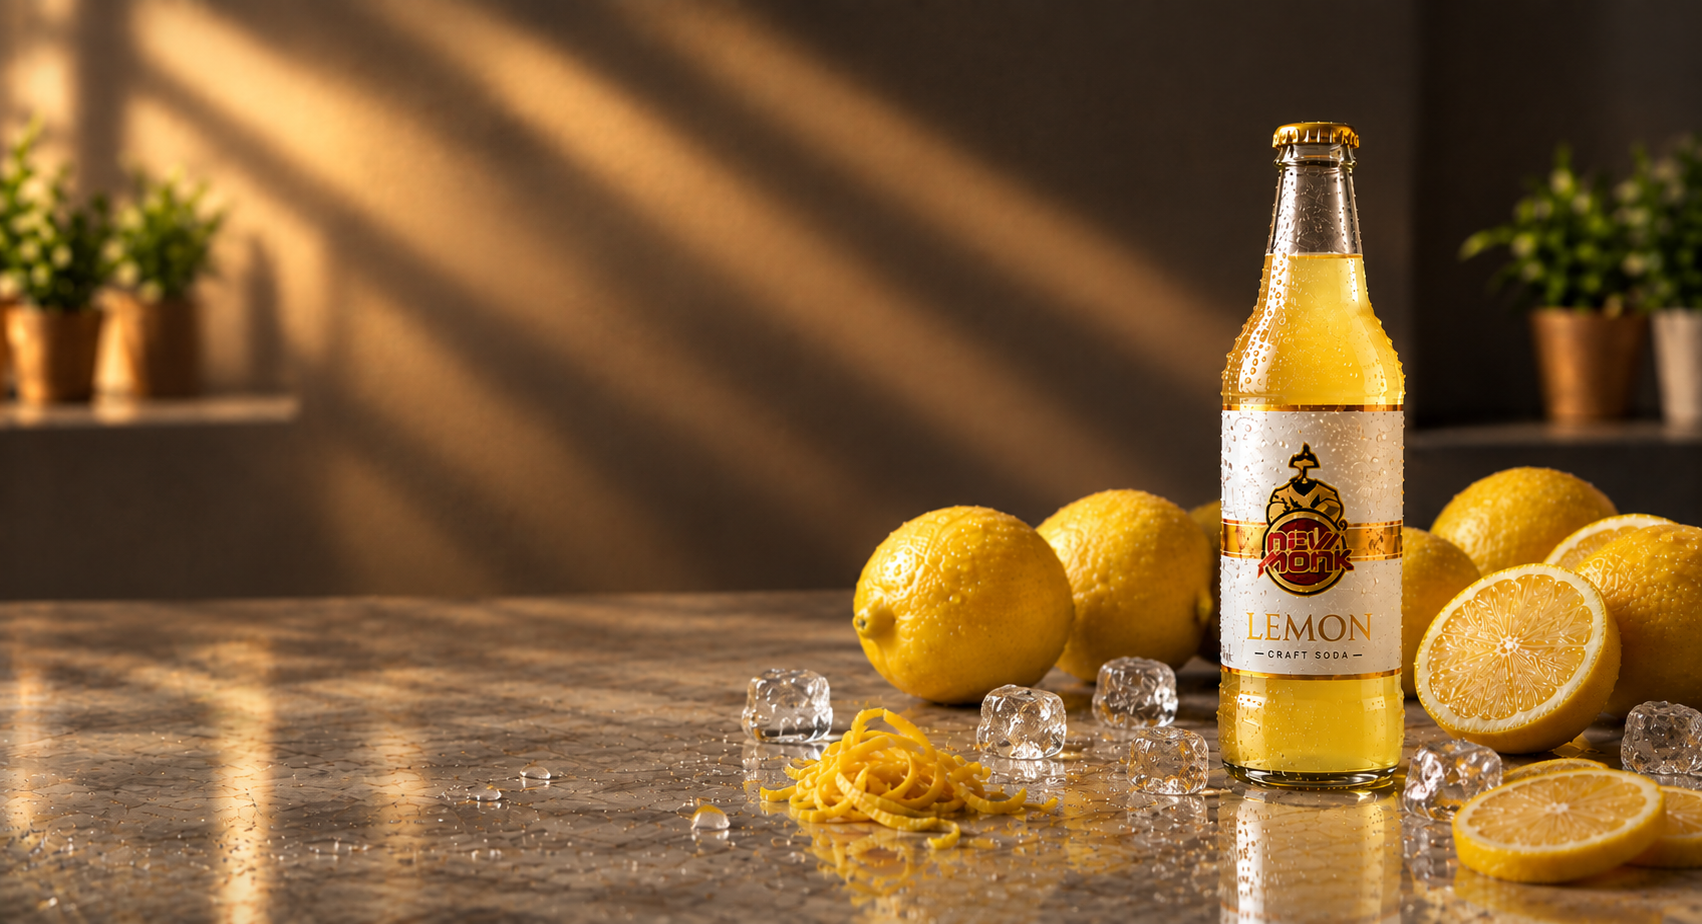
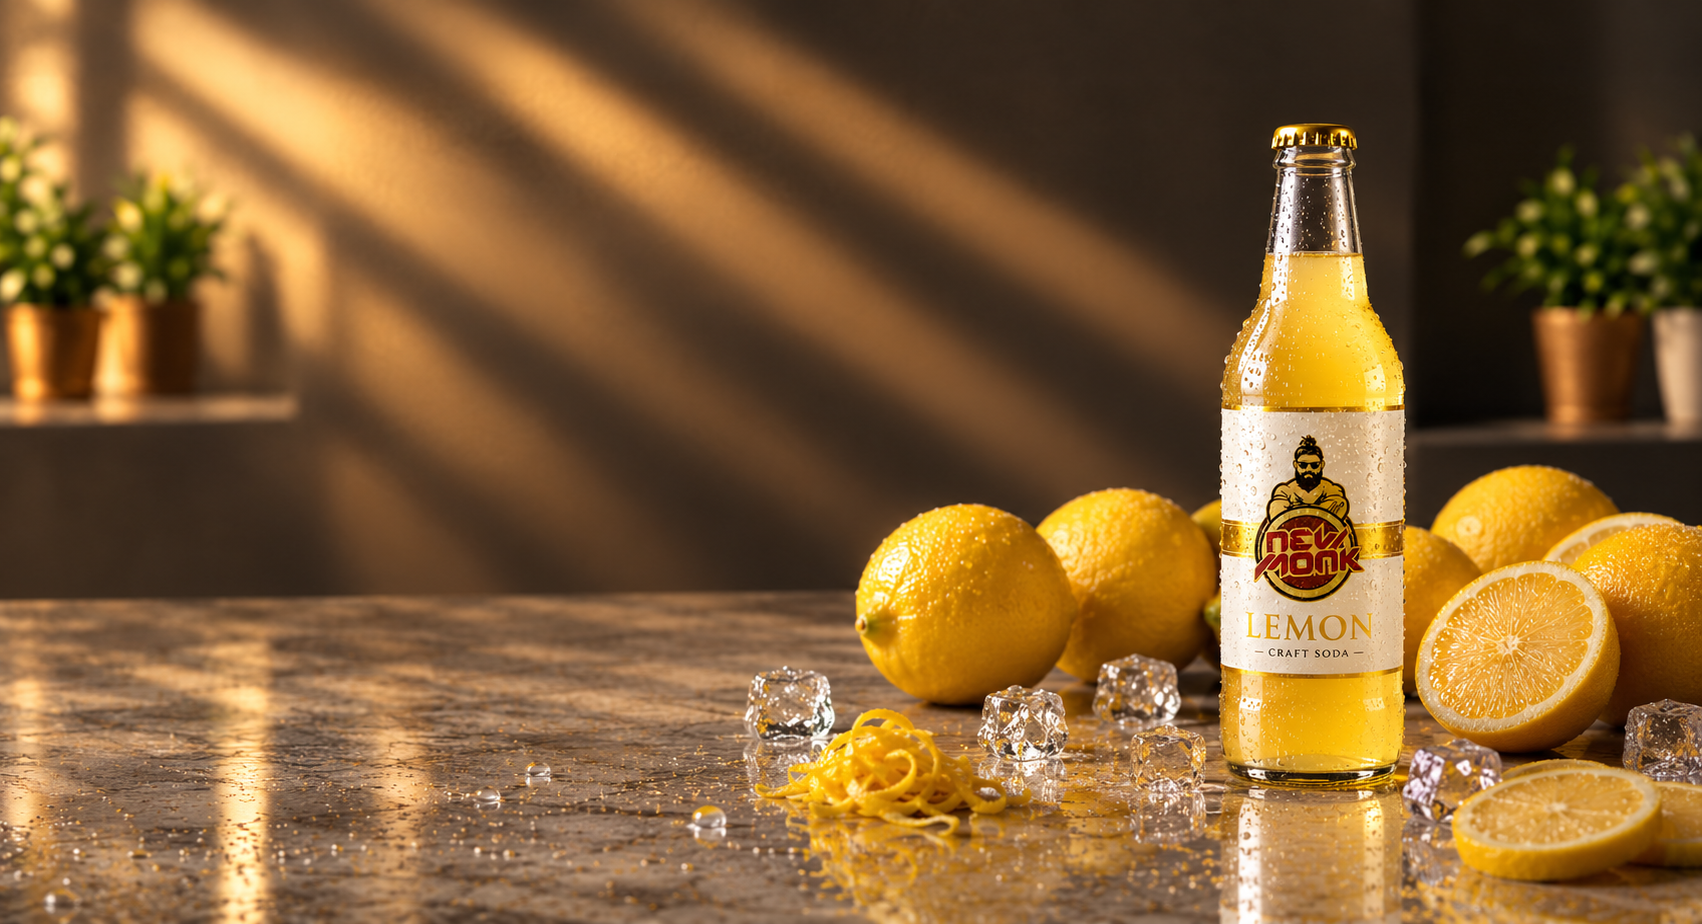
all done

diff --git a/index.html b/index.html
@@ -13,7 +13,7 @@
   </head>
   <body>
     <header class="site-header">
-      <a class="wordmark" href="#top" aria-label="New Monk home">new <span>monk</span></a>
+      <a class="wordmark" href="#top" aria-label="New Monk home"><img src="images/logo.png" alt="New Monk" /></a>
       <nav class="desktop-nav" aria-label="Main navigation">
         <a href="#why">Why New Monk</a>
         <a href="#moments">Good moments</a>
@@ -68,7 +68,7 @@
       </section>
 
       <section class="spark-banner">
-        <img src="images/2.png" alt="New Monk bottle with bright citrus" />
+        <img src="images/2.png?v=2" alt="New Monk bottle with bright citrus" />
         <div class="spark-overlay"></div>
         <h2>Taste the Spark.</h2>
       </section>
@@ -94,38 +94,29 @@
         </div>
       </section>
 
-      <section class="product-story" id="details">
-        <div class="product-visual reveal">
-          <img src="images/11.png" alt="New Monk 250ml glass bottle" />
-          <div class="bottle-shadow"></div>
-          <span class="circle-label">250 ml<br />glass bottle</span>
-        </div>
-        <div class="product-copy section-pad reveal">
-          <p class="eyebrow">The original New Monk</p>
-          <h2>A little golden<br /><em>ritual.</em></h2>
-          <p><strong>New Monk Mocktail Syrup — Sweet, 500ml.</strong><br />Traditional Nannari root extract, blended with pineapple, lemon and mint. No artificial colours or sweeteners.</p>
-          <dl class="details-list">
-            <div><dt>Use for</dt><dd>Mojitos · iced tea · soda · lemonade · slushies</dd></div>
-            <div><dt>Made in</dt><dd>Bangalore</dd></div>
-            <div><dt>Good to know</dt><dd>No artificial colours or sweeteners</dd></div>
-          </dl>
-          <a class="button blinkit-image-link blinkit-cta" aria-label="Buy on Blinkit" href="https://blinkit.com/prn/x/prid/785887" target="_blank" rel="noopener noreferrer"><img src="images/cta2.png" alt="Buy on Blinkit" /></a>
+      <section class="night-edition">
+        <div class="night-image reveal"><img src="images/3.png" alt="New Monk bottle with ice and lemon twists against a dark background" /></div>
+        <div class="night-copy section-pad reveal reveal-delay">
+          <p class="eyebrow">New Monk · Night edition</p>
+          <h2>After Dark,<br /><em>Still Zero Proof.</em></h2>
+          <p>Same bright pour. A little more atmosphere.</p>
         </div>
       </section>
 
-      <section class="inside-bottle section-pad" id="inside-bottle">
+      <section class="inside-bottle section-pad" id="details">
         <div class="inside-product reveal">
-          <img src="images/9.png" alt="New Monk bottle on a clean white background" />
+          <img src="images/11.png" alt="New Monk bottle height comparison" />
           <span class="inside-stamp">Made in<br />India</span>
         </div>
         <div class="inside-content reveal reveal-delay">
-          <p class="eyebrow">Know your pour</p>
-          <h2>Inside Every<br /><span>Bottle.</span></h2>
+          <p class="eyebrow">The original New Monk</p>
+          <h2>A little golden<br /><em>ritual.</em></h2>
+          <p class="details-lede"><strong>New Monk Mocktail Syrup — Sweet, 500ml.</strong><br />Traditional Nannari root extract, blended with pineapple, lemon and mint. No artificial colours or sweeteners.</p>
           <div class="info-accordion">
             <div class="info-item is-open">
               <button class="info-trigger" type="button" aria-expanded="true" aria-controls="size-panel" id="size-trigger"><span><b>01</b>Size</span><strong>−</strong></button>
               <div class="info-panel" id="size-panel" role="region" aria-labelledby="size-trigger">
-                <div class="size-panel"><img src="images/5.png" alt="New Monk bottle shown in a bright outdoor setting" /><div><strong>250ml</strong><span>21cm tall</span><p>Small enough to bring along. Just enough to keep the good times going.</p></div></div>
+                <div class="size-panel"><div><strong>500ml</strong><span>Mocktail syrup</span><p>Made for mixing into mojitos, iced tea, soda, lemonade and slushies.</p></div></div>
               </div>
             </div>
             <div class="info-item">
@@ -137,7 +128,7 @@
             <div class="info-item">
               <button class="info-trigger" type="button" aria-expanded="false" aria-controls="ingredients-panel" id="ingredients-trigger"><span><b>03</b>Ingredients</span><strong>+</strong></button>
               <div class="info-panel" id="ingredients-panel" role="region" aria-labelledby="ingredients-trigger" hidden>
-                <p class="ingredients-copy">Water, Nannari (Sarsaparilla) root extract, Lemon conc (1.17%), Sugar, natural flavouring agents, stabilisers (INS 415, 418, 466), preservative INS 211.</p>
+                <p class="ingredients-copy">Traditional Nannari root extract, blended with pineapple, lemon and mint. No artificial colours or sweeteners.</p>
               </div>
             </div>
             <div class="info-item">
@@ -168,25 +159,16 @@
           <p>Last-minute party? Say less. Order on Blinkit.</p>
           <a class="button blinkit-image-link blinkit-cta" aria-label="Buy on Blinkit" href="https://blinkit.com/prn/x/prid/785887" target="_blank" rel="noopener noreferrer"><img src="images/cta2.png" alt="Buy on Blinkit" /></a>
         </div>
-        <div class="blinkit-slide-image reveal reveal-delay"><img src="images/11.png" alt="New Monk bottle held up poolside at a party" /></div>
+        <div class="blinkit-slide-image reveal reveal-delay"><img src="images/012.png" alt="New Monk bottle being poured beside a glass of lemon soda" /></div>
       </section>
 
       <section class="instant-party section-pad">
-        <div class="instant-party-image reveal"><img src="images/014.png" alt="Friends toasting New Monk bottles on a rooftop with a Blinkit delivery bag" /></div>
+        <div class="instant-party-image reveal"><img src="images/013.png" alt="New Monk lemon craft soda bottle surrounded by citrus and ice" /></div>
         <div class="instant-party-copy reveal reveal-delay">
           <p class="eyebrow">No planning required</p>
           <h2>Turn Normal Time Into <span>Instant Party Time.</span></h2>
           <p>New Monk Mocktails, delivered in 10 minutes. No planning. No pit stops. Just good company and a cold bottle.</p>
           <a class="button blinkit-image-link blinkit-cta" aria-label="Buy on Blinkit" href="https://blinkit.com/prn/x/prid/785887" target="_blank" rel="noopener noreferrer"><img src="images/cta2.png" alt="Buy on Blinkit" /></a>
-        </div>
-      </section>
-
-      <section class="night-edition">
-        <div class="night-image reveal"><img src="images/3.png" alt="New Monk bottle with ice and lemon twists against a dark background" /></div>
-        <div class="night-copy section-pad reveal reveal-delay">
-          <p class="eyebrow">New Monk · Night edition</p>
-          <h2>After Dark,<br /><em>Still Zero Proof.</em></h2>
-          <p>Same bright pour. A little more atmosphere.</p>
         </div>
       </section>
 
@@ -203,14 +185,14 @@
       </section>
 
       <section class="closing-cta">
-        <img src="images/2.png" alt="New Monk bottle on a bright yellow table" />
+        <img src="images/2.png?v=2" alt="New Monk bottle on a bright yellow table" />
         <div class="closing-overlay"></div>
         <div class="closing-content reveal"><p class="eyebrow">Your fridge's new favourite</p><h2>Make room<br /><em>for good.</em></h2><a class="button blinkit-image-link blinkit-cta" aria-label="Buy on Blinkit" href="https://blinkit.com/prn/x/prid/785887" target="_blank" rel="noopener noreferrer"><img src="images/cta2.png" alt="Buy on Blinkit" /></a></div>
       </section>
     </main>
 
     <footer class="site-footer dark-footer section-pad">
-      <div class="footer-topline"><div class="wordmark">new <span>monk</span></div><p>Good company. Good drink.</p><div class="footer-links"><a href="#top">Back to top ↑</a><a href="mailto:hello@newmonk.in">hello@newmonk.in</a></div></div>
+      <div class="footer-topline"><a class="wordmark" href="#top" aria-label="New Monk home"><img src="images/logo.png" alt="New Monk" /></a><p>Good company. Good drink.</p><div class="footer-links"><a href="#top">Back to top ↑</a><a href="mailto:hello@newmonk.in">hello@newmonk.in</a></div></div>
       <div class="footer-meta"><p><strong>Manufactured &amp; Marketed by:</strong> Leos &amp; Slons Private Ltd</p><p><strong>FSSAI LIC No:</strong> 11223302001429</p><p><strong>Country of Origin:</strong> India</p></div>
       <p class="footer-disclaimer"><strong>Disclaimer:</strong> Sedimentation and water separation are natural. Shake well before use. Refrigerate after opening, consume within 24 hours. Do not consume more than 2 servings per day.</p>
       <p class="privacy-note">We use your approximate location to show the nearest Blinkit ordering link.</p>

diff --git a/styles.css b/styles.css
@@ -12,6 +12,7 @@ img { display: block; max-width: 100%; }
 .site-header { position: absolute; z-index: 5; top: 0; left: 0; right: 0; display: flex; align-items: center; justify-content: space-between; padding: 1.25rem clamp(1.25rem, 5vw, 6.5rem); }
 .site-header::before { position: absolute; z-index: -1; inset: 0; height: 6.5rem; background: linear-gradient(180deg, rgba(15, 15, 13, .58), rgba(15, 15, 13, 0)); content: ''; pointer-events: none; }
 .wordmark { font: 800 1.35rem/1 var(--serif); letter-spacing: -0.08em; text-transform: lowercase; }
+.wordmark img { width: 56px; height: auto; }
 .wordmark span { display: inline-block; transform: rotate(-7deg); color: white; text-shadow: 0 2px 12px rgba(0, 0, 0, .45); }
 .site-header .wordmark { color: white; }
 .site-header .wordmark span { color: var(--lemon); }
@@ -55,17 +56,17 @@ h2 { margin-bottom: 1.5rem; font-size: clamp(3rem, 6vw, 5.7rem); } h2 span { col
 .feature-card-yellow, .feature-card-cream { background: var(--cream); }
 .product-visual { background: var(--cream); }
 .blinkit-slide, .instant-party { background: var(--paper); }
-.blinkit-slide { display: grid; grid-template-columns: 1fr 1fr; align-items: center; gap: clamp(2rem, 8vw, 9rem); padding-top: clamp(5rem, 9vw, 8rem); padding-bottom: clamp(5rem, 9vw, 8rem); }
+.blinkit-slide { display: grid; grid-template-columns: .92fr 1.08fr; align-items: center; gap: clamp(2rem, 7vw, 7rem); padding-top: clamp(5rem, 9vw, 8rem); padding-bottom: clamp(5rem, 9vw, 8rem); }
 .blinkit-slide-copy h2 { margin-bottom: 1rem; font-size: clamp(3.1rem, 6vw, 6rem); }
 .blinkit-slide-copy h2 span, .instant-party-copy h2 span { color: var(--lemon); }
 .blinkit-slide-copy h3 { margin: 0 0 1.2rem; font: 700 clamp(1.4rem, 2.5vw, 2.2rem)/1 var(--serif); }
 .blinkit-slide-copy > p:not(.eyebrow), .instant-party-copy > p:not(.eyebrow) { max-width: 430px; color: var(--muted); font-size: 1rem; }
 .blinkit-slide-copy .button, .instant-party-copy .button { margin-top: 1rem; }
-.blinkit-slide-image { overflow: hidden; border-radius: 1rem; }
-.blinkit-slide-image img { width: 100%; aspect-ratio: 1.15; object-fit: cover; }
+.blinkit-slide-image { overflow: hidden; border: 1px solid rgba(23,23,23,.08); border-radius: 1.25rem; background: var(--cream); box-shadow: 0 18px 50px rgba(23,23,23,.08); }
+.blinkit-slide-image img { width: 100%; aspect-ratio: 1.25; object-fit: cover; }
 .instant-party { display: grid; grid-template-columns: 1.15fr .85fr; align-items: center; gap: clamp(2rem, 8vw, 9rem); padding-top: clamp(5rem, 9vw, 8rem); padding-bottom: clamp(5rem, 9vw, 8rem); }
-.instant-party-image { overflow: hidden; border-radius: 1rem; }
-.instant-party-image img { width: 100%; aspect-ratio: 1.35; object-fit: cover; }
+.instant-party-image { overflow: hidden; border: 1px solid rgba(23,23,23,.08); border-radius: 1.25rem; background: var(--cream); box-shadow: 0 18px 50px rgba(23,23,23,.08); }
+.instant-party-image img { width: 100%; aspect-ratio: 1.25; object-fit: cover; }
 .instant-party-copy h2 { margin-bottom: 1.8rem; font-size: clamp(3rem, 5.2vw, 5.6rem); }
 .flavour-split { display: grid; grid-template-columns: 1.15fr .85fr; gap: clamp(2rem, 7vw, 8rem); align-items: center; padding-top: clamp(5rem, 10vw, 10rem); padding-bottom: clamp(5rem, 10vw, 9rem); background: var(--cream); }
 .flavour-images { display: grid; grid-template-columns: 1fr 1fr; gap: 1rem; align-items: end; }
@@ -140,6 +141,8 @@ h2 { margin-bottom: 1.5rem; font-size: clamp(3rem, 6vw, 5.7rem); } h2 span { col
 .inside-product img { width: min(70%, 360px); mix-blend-mode: multiply; }
 .inside-stamp { position: absolute; top: 12%; right: 10%; display: grid; place-items: center; width: 5.5rem; height: 5.5rem; border: 1px solid #b18e29; border-radius: 50%; color: #9b7b26; font: 700 .65rem/1.1 var(--serif); text-align: center; text-transform: uppercase; transform: rotate(10deg); }
 .inside-content h2 { margin-bottom: 2.5rem; font-size: clamp(3.2rem, 5vw, 5.4rem); }
+.details-lede { max-width: 520px; margin: -1rem 0 2.5rem; color: var(--muted); font-size: 1rem; line-height: 1.65; }
+.details-lede strong { color: var(--ink); }
 .inside-content h2 span { color: var(--lemon); }
 .info-accordion { border-top: 1px solid var(--line); }
 .info-item { border-bottom: 1px solid var(--line); }
@@ -151,6 +154,7 @@ h2 { margin-bottom: 1.5rem; font-size: clamp(3rem, 6vw, 5.7rem); } h2 span { col
 .size-panel { display: grid; grid-template-columns: 130px 1fr; align-items: center; gap: 1.25rem; }
 .size-panel img { width: 130px; height: 100px; border-radius: .5rem; object-fit: cover; }
 .size-panel strong, .size-panel span { display: block; }.size-panel strong { color: var(--ink); font: 700 2rem var(--serif); }.size-panel span { color: #9b7b26; font-size: .75rem; font-weight: 700; }.size-panel p { margin: .5rem 0 0; }
+.size-panel { display: block; }
 .nutrition-grid { display: grid; grid-template-columns: 1fr 1fr; gap: .6rem 1rem; }.nutrition-grid strong { color: var(--ink); font-weight: 700; text-align: right; }.nutrition-grid span { color: var(--muted); }
 .ingredients-copy { max-width: 540px; margin: 0; }
 .enjoy-list { display: grid; grid-template-columns: 1fr 1fr; gap: .5rem 1rem; padding: 0; margin: 0; list-style: none; }.enjoy-list li::before { content: '✦'; margin-right: .55rem; color: #b18e29; }
@@ -173,6 +177,7 @@ h2 { margin-bottom: 1.5rem; font-size: clamp(3rem, 6vw, 5.7rem); } h2 span { col
 
 /* Minimal compliance footer */
 .dark-footer { display: block; background: var(--ink); color: white; }
+.dark-footer .wordmark img { width: 56px; }
 .footer-topline { display: grid; grid-template-columns: 1fr 1fr 1fr; align-items: center; gap: 2rem; padding-bottom: 1.75rem; border-bottom: 1px solid rgba(255,255,255,.18); }
 .dark-footer .wordmark span { color: var(--lemon); }
 .dark-footer p { margin: 0; color: #aaa79e; }
